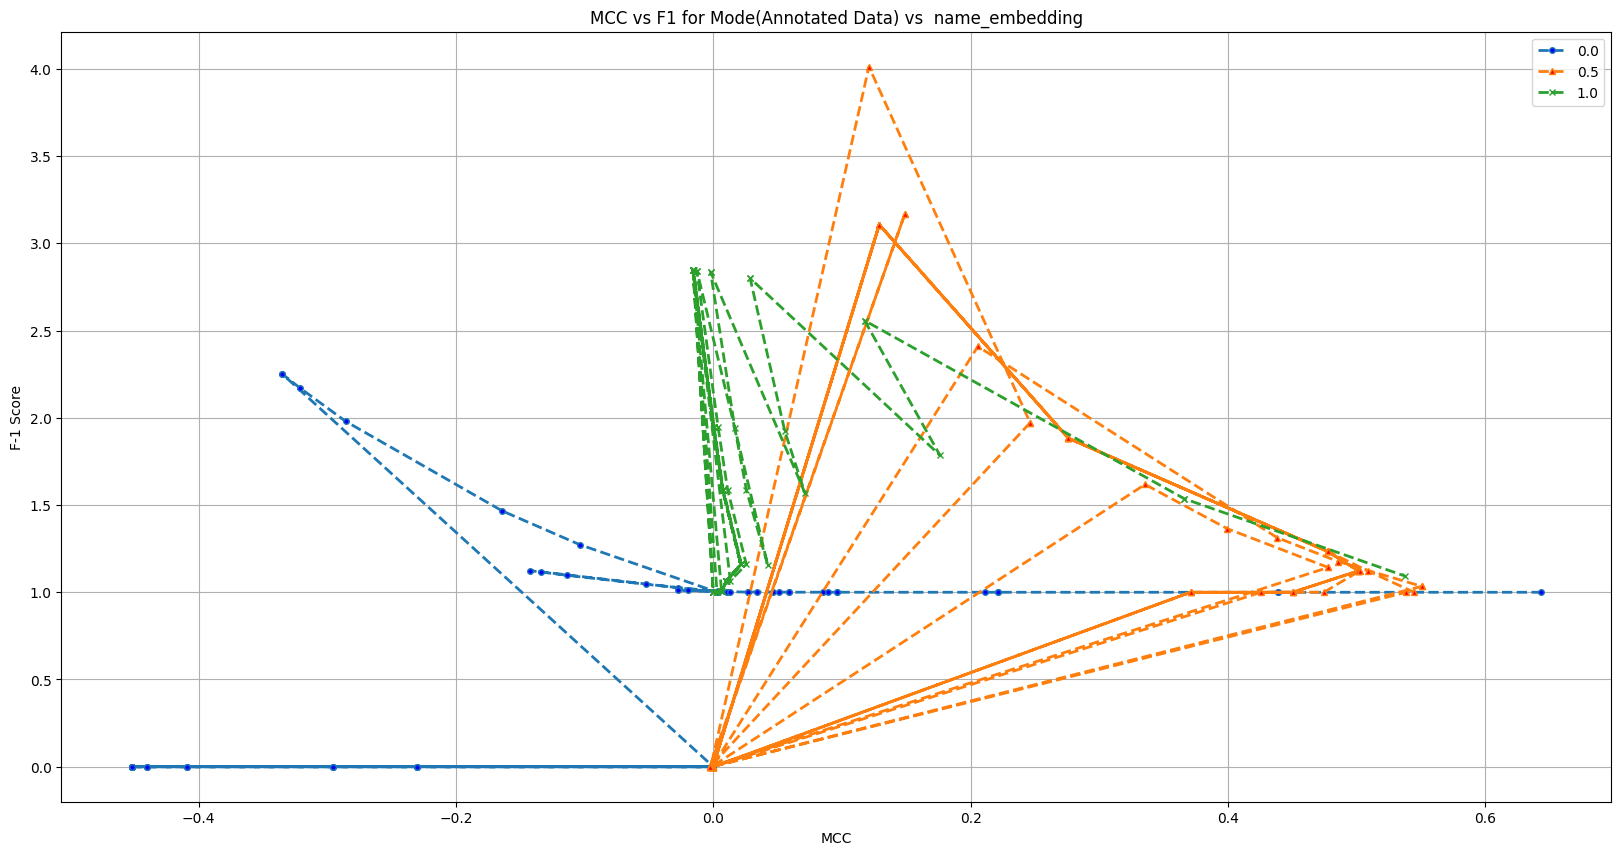
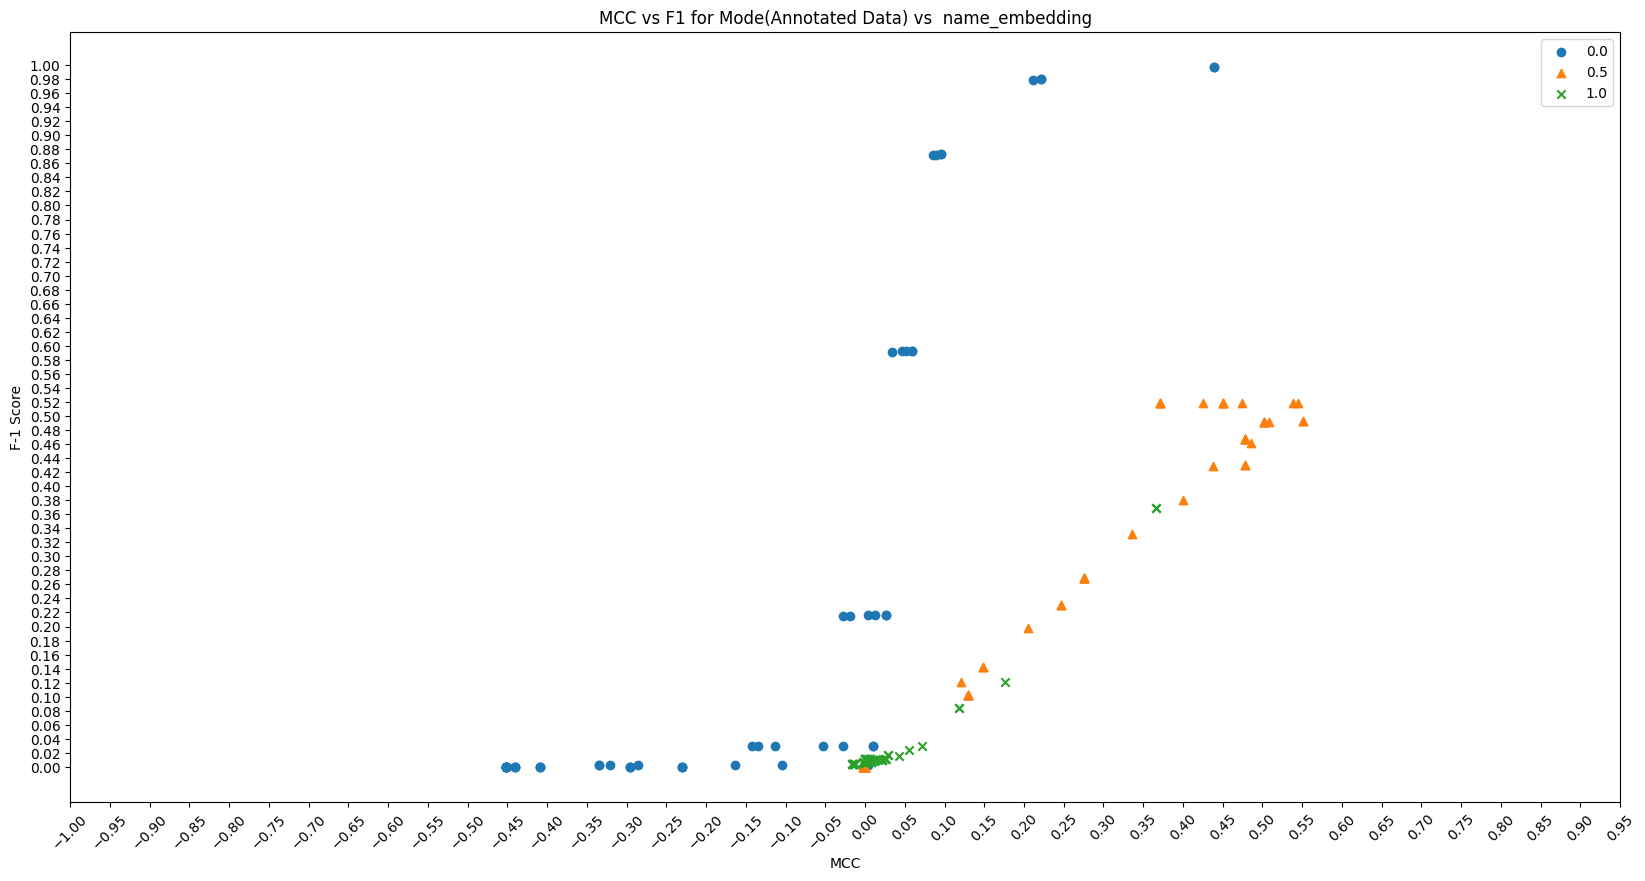
results

diff --git a/Implementation/AnnotatedDataHandler.py b/Implementation/AnnotatedDataHandler.py
@@ -9,6 +9,7 @@ import pandas as pd
 from statistics import mode, StatisticsError
 import math
 from matplotlib import pyplot as plt
+from decimal import Decimal
 
 np.seterr('raise')
 
@@ -570,13 +571,15 @@ class AnnotatedDataHandler:
             performance_dict[pc_index]["f-measure"] = {}
             for B in [0.5, 1, 2]:
 
-                f_measure_numerator = (B * B) + 1 * (
-                            performance_dict[pc_index]["sensitivity"] * performance_dict[pc_index]["precision"])
-                f_measure_denominator = (performance_dict[pc_index]["sensitivity"]) + (
-                            B * performance_dict[pc_index]["precision"])
+                f_measure_numerator = (1 + (B * B)) * (
+                    performance_dict[pc_index]["tp"])
+                f_measure_denominator = ((1 + (B * B)) * (performance_dict[pc_index]["tp"])) + (
+                        (B * B) * performance_dict[pc_index]["fn"]) + (performance_dict[pc_index]["fp"])
                 if f_measure_denominator == 0:
                     performance_dict[pc_index]["f-measure"][str(B)] = 0
                 else:
+                    if f_measure_numerator / f_measure_denominator > 1:
+                        print(f_measure_numerator, "/", f_measure_denominator)
                     performance_dict[pc_index]["f-measure"][str(B)] = f_measure_numerator / f_measure_denominator
 
             performance_dict[pc_index]["G-mean1"] = math.sqrt(performance_dict[pc_index]["sensitivity"] * \
@@ -585,11 +588,11 @@ class AnnotatedDataHandler:
                 performance_dict[pc_index]["sensitivity"] * performance_dict[pc_index]["specificity"])
 
             mcc_numerator = (performance_dict[pc_index]["tp"] * performance_dict[pc_index]["tn"]) - (
-                        performance_dict[pc_index]["fp"] * performance_dict[pc_index]["fn"])
+                    performance_dict[pc_index]["fp"] * performance_dict[pc_index]["fn"])
             mcc_denominator = math.sqrt((performance_dict[pc_index]["tp"] + performance_dict[pc_index]["fp"]) * (
-                        performance_dict[pc_index]["tp"] + performance_dict[pc_index]["fn"]) * (
-                                                    performance_dict[pc_index]["tn"] + performance_dict[pc_index][
-                                                "fp"]) * (performance_dict[pc_index]["tn"] + performance_dict[pc_index][
+                    performance_dict[pc_index]["tp"] + performance_dict[pc_index]["fn"]) * (
+                                                performance_dict[pc_index]["tn"] + performance_dict[pc_index][
+                                            "fp"]) * (performance_dict[pc_index]["tn"] + performance_dict[pc_index][
                 "fn"]))
             if mcc_denominator == 0:
                 performance_dict[pc_index]["mcc"] = 0
@@ -600,14 +603,15 @@ class AnnotatedDataHandler:
 
     def evaluateMethod(self, annotatedData, methodIndex=1):
         annotatedDataHandler.log("Mode(Annotated Data) vs " + self.computed_method[methodIndex])
-
-        minFive = 0.0
+        minFive = float(0.0)
         # maxFive = 0.1
         ovr_conditions = []
         ovo_conditions = []
-        while minFive < 1:
+        while minFive < float(0.91):
+            if minFive == 1:
+                print(minFive)
             maxFive = minFive
-            while maxFive <= 1:
+            while maxFive <= float(1.0):
                 thresholds = {"0.0": minFive, "0.5": maxFive}
                 conditions = {}
                 data_in_2d = self.read_computed_data_from[methodIndex](True, thresholds)
@@ -620,9 +624,10 @@ class AnnotatedDataHandler:
                 cm = confusion_matrix(annotatedData, data_in_1d,
                                       labels=target_names)  # , rownames=['Actual'], colnames=['Predicted'])
                 conditions["ovr"] = annotatedDataHandler.calculate_ovr_conditions(cm, thresholds)
+                print(thresholds)
                 ovr_conditions.append(conditions["ovr"])
-                maxFive += 0.1
-            minFive += 0.1
+                maxFive = float(Decimal(maxFive) + Decimal('.1'))
+            minFive = float(Decimal(minFive) + Decimal('.1'))
 
         print("Method " + self.computed_method[methodIndex] + " finished processing.")
 
@@ -632,6 +637,10 @@ class AnnotatedDataHandler:
         annotatedDataHandler.plot_scatter_for_mcc_vs_f1(ovr_conditions,
                                                         'MCC vs F1 for Mode(Annotated Data) vs ' + self.computed_method[
                                                             methodIndex])
+
+        annotatedDataHandler.plot_pr(ovr_conditions,
+                                     'Precision vs Recall for Mode(Annotated Data) vs ' + self.computed_method[
+                                         methodIndex])
 
     def plot_roc(self, condition_from_experimental_iterations, plotTitle):
         fig = plt.figure(figsize=(20, 10))
@@ -652,18 +661,55 @@ class AnnotatedDataHandler:
                         fpr_from_experimental_iterations.append(1 - class_result["specificity"])
                         thresholds_from_experimental_iterations.append(cond["threshold"])
 
-            plt.plot(sensitivity_from_experimental_iterations, fpr_from_experimental_iterations, linestyle='dashed',
-                     linewidth=2, label=positive_class, marker=marker, markerfacecolor=color, markersize=4)
-            for x, y, z in zip(sensitivity_from_experimental_iterations, fpr_from_experimental_iterations,
-                               thresholds_from_experimental_iterations):
-                # print(z["0.0"])
-                ax.annotate('(T_0=%.2f,T_0.5=%.2f)' % (z["0.0"], z["0.5"]), xy=(x, y))
+            # plt.plot(sensitivity_from_experimental_iterations, fpr_from_experimental_iterations, linestyle='dashed', linewidth=2, label=positive_class, marker=marker, markerfacecolor=color, markersize=4)
+            plt.scatter(sensitivity_from_experimental_iterations, fpr_from_experimental_iterations,
+                        label=positive_class, marker=marker)
+            # for x, y, z in zip(sensitivity_from_experimental_iterations, fpr_from_experimental_iterations,
+            #                    thresholds_from_experimental_iterations):
+            #     # print(z["0.0"])
+            #     ax.annotate('(T_0=%.2f,T_0.5=%.2f)' % (z["0.0"], z["0.5"]), xy=(x, y))
         ax.plot([0, 1], [0, 1], transform=ax.transAxes, ls="--", c=".3")
-        plt.grid(True)
+        plt.xticks(np.arange(0, 1, step=0.02), rotation=45)
+        plt.yticks(np.arange(0, 1, step=0.02))
+        # plt.grid(True)
         plt.legend()
         # plt.show()
         self.log("saving plot:" + plotTitle)
-        fig.savefig("Results/charts/"+self.get_valid_filename(plotTitle), bbox_inches='tight')
+        fig.savefig("Results/charts/" + self.get_valid_filename(plotTitle), bbox_inches='tight')
+
+    # Plot precision vs recall
+    def plot_pr(self, condition_from_experimental_iterations, plotTitle):
+        fig = plt.figure(figsize=(20, 20))
+        ax = fig.add_subplot(111)
+        plt.xlabel('Recall')
+        plt.ylabel('Precision')
+        plt.title(plotTitle)
+        for positive_class, marker, color in zip(self.classes, self.marker_set, self.color_set):
+            recall_from_experimental_iterations = []
+            precision_from_experimental_iterations = []
+            thresholds_from_experimental_iterations = []
+            for cond in condition_from_experimental_iterations:
+                for index in range(0, len(self.classes)):
+                    class_result = cond[index]
+                    if class_result['classPositive'] == positive_class:
+                        precision_from_experimental_iterations.append(class_result['precision'])
+                        recall_from_experimental_iterations.append(class_result["recall"])
+                        thresholds_from_experimental_iterations.append(cond["threshold"])
+
+            plt.plot(recall_from_experimental_iterations, precision_from_experimental_iterations, linestyle='dashed',
+                     linewidth=2, label=positive_class, marker=marker, markerfacecolor=color, markersize=6)
+            for x, y, z in zip(recall_from_experimental_iterations, precision_from_experimental_iterations,
+                               thresholds_from_experimental_iterations):
+                # print(z["0.0"])
+                ax.annotate('(%.1f,%.1f)' % (z["0.0"], z["0.5"]), xy=(x, y))
+        ax.plot([0, 1], [0, 1], transform=ax.transAxes, ls="--", c=".3")
+        plt.xticks(np.arange(0, 1, step=0.02), rotation=45)
+        plt.yticks(np.arange(0, 1, step=0.02))
+        # plt.grid(True)
+        plt.legend()
+        # plt.show()
+        self.log("saving plot:" + plotTitle)
+        fig.savefig("Results/charts/" + self.get_valid_filename(plotTitle), bbox_inches='tight')
 
     def plot_scatter_for_mcc_vs_f1(self, condition_from_experimental_iterations, plotTitle):
         fig = plt.figure(figsize=(20, 10))
@@ -684,13 +730,15 @@ class AnnotatedDataHandler:
                         fpr_from_experimental_iterations.append(class_result['f-measure']['1'])
                         thresholds_from_experimental_iterations.append(cond["threshold"])
 
-            plt.plot(sensitivity_from_experimental_iterations, fpr_from_experimental_iterations, linestyle='dashed',
-                     linewidth=2, label=positive_class, marker=marker, markerfacecolor=color, markersize=4)
-        plt.grid(True)
+            plt.scatter(sensitivity_from_experimental_iterations, fpr_from_experimental_iterations,
+                        label=positive_class, marker=marker)
+        # plt.grid(True)
+        plt.xticks(np.arange(-1, 1, step=0.05), rotation=45)
+        plt.yticks(np.arange(0, 1.02, step=0.02))
         plt.legend()
         # plt.show()
         self.log("saving plot:" + plotTitle)
-        fig.savefig("Results/charts/"+self.get_valid_filename(plotTitle), bbox_inches='tight')
+        fig.savefig("Results/charts/" + self.get_valid_filename(plotTitle), bbox_inches='tight')
 
 
 annotatedDataHandler = AnnotatedDataHandler()
@@ -707,82 +755,3 @@ flatAnnotatedData = annotatedDataHandler.collapseDataSetTo1d(modeAnnotatedData)
 annotatedDataHandler.evaluateMethod(flatAnnotatedData, 0)
 annotatedDataHandler.evaluateMethod(flatAnnotatedData, 1)
 annotatedDataHandler.evaluateMethod(flatAnnotatedData, 2)
-
-# minFive = 0.0
-# maxFive = 0.1
-# ovr_conditions = []
-# ovo_conditions = []
-# while minFive < 1:
-#     maxFive = minFive
-#     while maxFive <= 1:
-#         thresholds = {"0.0": minFive, "0.5": maxFive}
-#         conditions = {}
-#         annotatedDataHandler.read_computed_data_from_fuzzy_wuzzy(True, thresholds)
-#         flatfuzzy_wuzzy_computed_data = annotatedDataHandler.collapseDataSetTo1d(annotatedDataHandler.fuzzy_wuzzy_computed_data)
-#         data = {'y_Actual': flatAnnotatedData,  # ["-1","0","0.5","1","1.5"],
-#                 'y_Predicted': flatfuzzy_wuzzy_computed_data  # [1,0.9,0.6,0.7,0.1]
-#                 }
-#         target_names = ['0.0', '0.5', "1.0"]  # , "1.5"]
-#         cm = confusion_matrix(flatAnnotatedData, flatfuzzy_wuzzy_computed_data,
-#                               labels=target_names)  # , rownames=['Actual'], colnames=['Predicted'])
-#         conditions["ovr"] = annotatedDataHandler.calculate_ovr_conditions(cm, thresholds)
-#         # conditions["ovo"] = annotatedDataHandler.calculate_ovo_conditions(cm, thresholds)
-#         ovr_conditions.append(conditions["ovr"])
-#         maxFive += 0.1
-#     minFive += 0.1
-
-# annotatedDataHandler.plot_roc(ovr_conditions, 'ROC for Mode(Annotated Data) vs Method 1')
-#
-# annotatedDataHandler.plot_scatter_for_mcc_vs_f1(ovr_conditions,
-#                                                 'MCC vs F1 for Mode(Annotated Data) vs Method 2')
-
-# annotatedDataHandler.log("Mode(Annotated Data) vs Method 2")
-# 
-# minFive = 0.0
-# maxFive = 0.1
-# ovr_conditions = []
-# ovo_conditions = []
-# while minFive < 1:
-#     maxFive = minFive
-#     while maxFive <= 1:
-#         thresholds = {"0.0": minFive, "0.5": maxFive}
-#         conditions = {}
-#         annotatedDataHandler.read_computed_data_from_syn_and_sem(True, thresholds)
-#         flatsyn_sem_computed_data = annotatedDataHandler.collapseDataSetTo1d(annotatedDataHandler.syn_sem_computed_data)
-#         data = {'y_Actual': flatAnnotatedData,  # ["-1","0","0.5","1","1.5"],
-#                 'y_Predicted': flatsyn_sem_computed_data  # [1,0.9,0.6,0.7,0.1]
-#                 }
-#         target_names = ['0.0', '0.5', "1.0"]  # , "1.5"]
-# 
-#         # df = pd.DataFrame(data, columns=['y_Actual', 'y_Predicted'])
-#         # flatAnnotatedData, flatfuzzy_wuzzy_computed_data
-#         # accuracy = accuracy_score(flatAnnotatedData, flatfuzzy_wuzzy_computed_data) #, rownames=['Actual'], colnames=['Predicted'])
-# 
-#         # report = classification_report(flatAnnotatedData, flatfuzzy_wuzzy_computed_data, target_names=target_names,output_dict=False,zero_division=0) #, rownames=['Actual'], colnames=['Predicted'])
-#         cm = confusion_matrix(flatAnnotatedData, flatsyn_sem_computed_data,
-#                               labels=target_names)  # , rownames=['Actual'], colnames=['Predicted'])
-#         conditions["ovr"] = annotatedDataHandler.calculate_ovr_conditions(cm, thresholds)
-#         ovr_conditions.append(conditions["ovr"])
-#         # print(conditions)
-#         # exit()
-#         # accuracy = conditions
-#         # # accuracy = np.diag(confusion_matrix).sum() / confusion_matrix.to_numpy().sum()
-#         # annotatedDataHandler.log(
-#         #     ["epoch:", curr_epoch, "accuracy:", accuracy, ", threshold: ", thresholdsMethod1, "max_accuracy:",
-#         #      max_accuracy,
-#         #      "best_threshold:", best_threshold])
-#         # if accuracy > max_accuracy:
-#         #     max_accuracy = accuracy
-#         #     best_threshold = thresholdsMethod1
-#         #     best_report = report
-#         maxFive += 0.1
-#     minFive += 0.1
-# # print(best_threshold)
-# # print(max_accuracy)
-# # print(best_report)
-# print("Method 2 finished")
-# 
-# annotatedDataHandler.plot_roc(ovr_conditions, 'ROC for Mode(Annotated Data) vs Method 2')
-# 
-# annotatedDataHandler.plot_scatter_for_mcc_vs_f1(ovr_conditions,
-#                                                 'MCC vs F1 for Mode(Annotated Data) vs Method 2')
